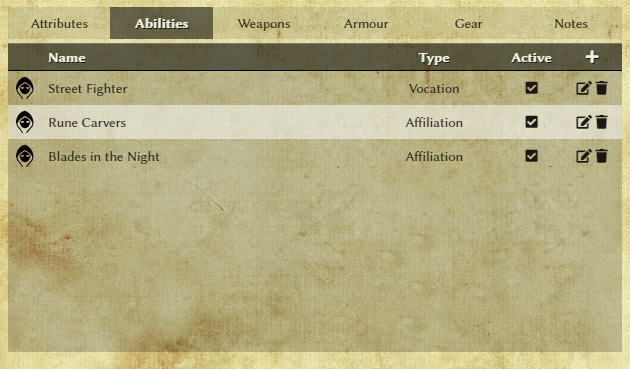
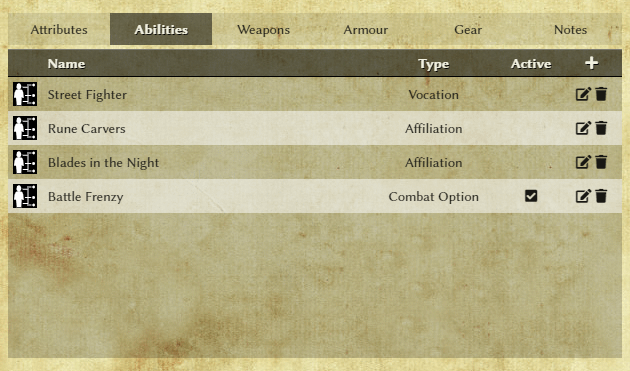
Update documentation

Changed region(s): [[0.0, 0.0, 0.9952, 0.5962], [0.0, 0.9539, 0.9952, 0.9837]]

diff --git a/docs/index.html b/docs/index.html
@@ -92,9 +92,12 @@
             equipped armour will contribute towards AC.
           </li>
           <li>
-            Encumbrance (ENC): read only, calculated from equipped and stored armour, gear and weapons. Show in red
-            when values are above the 10 equipped and 5 stored levels.
+            Burden: read only, calculates encumbrance from equipped and stored armour, gear and weapons. Values turn red
+            when above the 10 equipped and 5 stored levels. The title updates to reflect the burden: Normal,
+            Heavy, Severe and Massive.
           </li>
+          <li>Experience Points: has fields for current XP and XP required for the next level. Manually updated.</li>
+          <li>Hit Points: has fields for current HP and maximum HP. Manually updated.</li>
         </ul>
 
         <h4>Tabs</h4>
@@ -126,8 +129,7 @@
           </div>
           <div class="eight columns">
             <p>
-              The Select Groups dialog allows the player to choose which group or groups to apply to an attribute. It
-              only shows groups which are marked as active.
+              The Select Groups dialog allows the player to choose which group or groups to apply to an attribute.
             </p>
           </div>
         </div>
@@ -140,9 +142,8 @@
           </div>
           <div class="six columns">
             <p>
-              Attunements, Combat Options, Miracles and Groups all go in here. Along with the type of ability, the
-              active column gives an indicator to which is currently active and affects which groups can be assigned to
-              attributes.
+              Attunements, Combat Options, Miracles and Groups all go in here. The active column gives an indicator
+              as to which class ability is currently active.
             </p>
             <p>
               Clicking on the icon for the ability will show the ability name and description (if any) in the chat.
@@ -324,16 +325,33 @@
 
         <h4>Initiative</h4>
 
-        <p>The system supports the FoundryVTT initiative system. After actors have been added to the combat tracker
-          you can roll initiative from there or from the relevant token on a battle map.</p>
+        <p>
+          The system supports the FoundryVTT initiative system. After actors have been added to the combat tracker
+          you can roll initiative from there or from the relevant token on a battle map.
+        </p>
 
         <h4>Attack Rolls</h4>
 
         <p>
-          Attack rolls show the AC hit (I may add in targetting to pick up AC from tokens) and if the attack is
-          successful (in that the to hit roll is less than or equal to attack value) damage will also be rolled. It is
-          then down to the GM to determine if the to hit roll exceeded the targets AC and to manually deduct hit points
-          from tokens.
+          If a token is targeted by the user, the result of any attack roll will take the target's AC into account,
+          so the dice result must be above the target's AC and below their Attack Value. In instances where a token
+          is not selected the result of the attack roll will say what AC the attack would hit if it is successful, it is
+          then down to the GM to determine if the to hit roll exceeded the targets AC. For all rolls the type of result
+          is shown: Successful Positive Pair, Critical, Success, Fail/Miss, Fumble, Unsuccessful Negative Pair.
+        </p>
+
+        <p>
+          On a successful attack a damage roll will also be made for the weapon used and the GM or player will need
+          to manually deduct hit points from their targets.
+        </p>
+
+        <h4>Game Settings</h4>
+
+        <img src="images/game-settings.png" alt="Game settings panel" />
+
+        <p>
+          Currently the only setting is the default species for your game. If a character doesn't have a species as
+          a group the Species field will always default to this value.
         </p>
 
         <h3>Compatibility with modules</h3>
@@ -346,6 +364,7 @@
         <ul>
           <li>Dice So Nice</li>
           <li>Pop-out</li>
+          <li>Tokenizer</li>
         </ul>
 
         <p>

diff --git a/src/less/actor-sheet.less b/src/less/actor-sheet.less
@@ -68,6 +68,9 @@
 .monster {
   .sheet-header {
     flex: 0 0 160px;
+    .header-info {
+      margin-left: 10px;
+    }
   }
   .actor-notes {
     height: 175px;

diff --git a/src/less/partials/forms.less b/src/less/partials/forms.less
@@ -5,6 +5,7 @@
     img {
       border: none;
       margin-right: 0;
+      align-self: self-start;
     }
     h1 {
       input {
